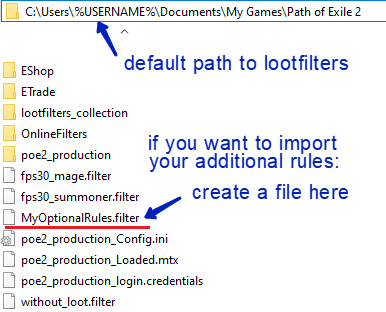
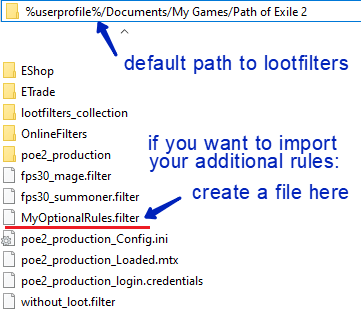
updating instructions for local files

Changed region(s): [[0.0, 0.2019, 0.9751, 1.0], [0.0, 0.0, 0.9751, 0.2308], [0.3657, 0.4327, 0.9446, 0.5481]]

diff --git a/README.md b/README.md
@@ -2,7 +2,7 @@
 
 *based on NeverSink's lootfilter v0.1.1 and augmented with a few hundred of my additional rules*
 
-[!TIP] TLDR Installation / Connection<br>
+## TL;DR Installation / Connection<br>
 *Detailed instructions are provided a couple of paragraphs below. Please read the full instructions if you're first time to see this project.*
 - ### cloud files:
   - **[fpsthirty-6961/item-filters](https://www.pathofexile.com/account/view-profile/fpsthirty-6961/item-filters)**
@@ -25,6 +25,7 @@ Special equipment stylization applies in the following cases:
      - orange text with ping border and pink mean: for base that theoretically can be either very expensive (Astramentis, etc.) or very cheap (~1 chaos);
      - orange text with beam: for cheap Schrodinger bases with price ~1–20 chaos;
      - orange text with brown beam: preliminary price ~2–30 chaos orbs;
+     - cyan text with brown border: for unique charms and relics;
      - orange text with brown beam and big fontsize: unique with extra socket;
      - divine styles with red beam: price ~1div *(these styles are also used for other expensive non-unique items)*;
      - divine styles with purple beam: price 2+ div.
@@ -58,10 +59,12 @@ For use at levels 91–100, I recommend importing an additional file with your p
 In this case you can make your own edits, including activating additionally prepared rules in the 📋 "[[0800]] Endgame custom rules" section, but **I recommend making all edits by importing an additional file** so that they don't get overwritten when using subsequent versions of this lootfilter.
 
 🧾 **Instruction:**
-1. Open link of current release: [releases/latest](https://github.com/fpsthirty/poe2-lootfilter/releases/latest)
-2. Scroll down to the "Assets"-section and click on the file name `NvrSnk+fps30_caster.filter` to download it.
-3. Move this file into the following folder: `%userprofile%/Documents/My Games/Path of Exile 2` *(you can paste this correct link into File Explorer)*
-4. Turn on filter in the game settings : `Escape` -> Options -> Game -> select the filter from the Dropdown box of "Item Filter" section — name of lootfilter will be **white** color.
+1. Follow one of the github-links and click download icon in the upper right corner:
+    - **[lootfilter for summoners](https://github.com/fpsthirty/poe2-lootfilter/raw/main/lootfilters/fps30_summoner.filter)**
+    - **[lootfilter for mages](https://github.com/fpsthirty/poe2-lootfilter/raw/main/lootfilters/fps30_mage.filter)**
+  > ![download-icon](https://github.com/fpsthirty/poe2-lootfilter/raw/main/img/settings/download-icon.png)
+2. Move this file into the following folder: `%userprofile%/Documents/My Games/Path of Exile 2` *(you can paste this correct link into File Explorer)*
+3. Turn on filter in the game settings : `Escape` -> Options -> Game -> select the filter from the Dropdown box of "Item Filter" section — name of lootfilter will be **white** color.
 
 > [!WARNING]
 > Summoner settings are enabled by default; if you are playing as a mage without a large number of summons, open lootfilter-file in any text editor (I recommend Sublime Text), find "[[0700]] Section for non-summoner casters" section outside the table of contents.
@@ -73,17 +76,17 @@ If you want to customize one of my lootfilters, create a separate import file so
 
 ### How to use this:
 1. Create a file named `MyOptionalRules.filter`.
-2. Place it in a folder `C:/Users/%USERNAME%/Documents/My Games/Path of Exile 2` — this is the path to default  folder of lootfilters<br>
-*p.s. you can copy and paste it, your system will automatically replace %USERNAME% with your username*
+2. Place it in a folder `%userprofile%/Documents/My Games/Path of Exile 2` — this is the path to default  folder of lootfilters<br>
+*p.s. you can copy and paste it, your system will automatically replace %userprofile% with your username*
 3. in the game settings : `Escape` -> Options -> Game -> click the loot filter update icon so it will pull the latest rules from your imported file.
 
->  ![settings/game-itemfilter](https://github.com/fpsthirty/poe2-lootfilter/raw/main/img/settings/game-itemfilter.png)
+>  ![settings/path-to-lootfilters](https://github.com/fpsthirty/poe2-lootfilter/raw/main/img/settings/path-to-lootfilters.png)
 ---
 
 ## 📖 Documentation
 *click on the last dropdown item first, you'll be more comfortable, trust me.*
 
-### show/hide rules for armors in the different area levels:
+### Show/hide rules for armors in the different area levels:
 > [!NOTE]
 > - double values in the lines for Shields indicate the difference in display depending on selected profile: summoner / mage;
 > - some item bases you've never seen, but information about them is in the game.
@@ -147,6 +150,7 @@ If you want to customize one of my lootfilters, create a separate import file so
 > - orange text with ping border and pink mean: for base that theoretically can be either very expensive (Astramentis, etc.) or very cheap (~1 chaos);
 > - orange text with beam: for cheap Schrodinger bases with price ~1–20 chaos;
 > - orange text with brown beam: preliminary price ~2–30 chaos orbs;
+> - cyan text with brown border: for unique charms and relics;
 > - orange text with brown beam and big fontsize: unique with extra socket;
 > - divine styles with red beam: price ~1div;
 > - divine styles with purple beam: price 2+ div.
